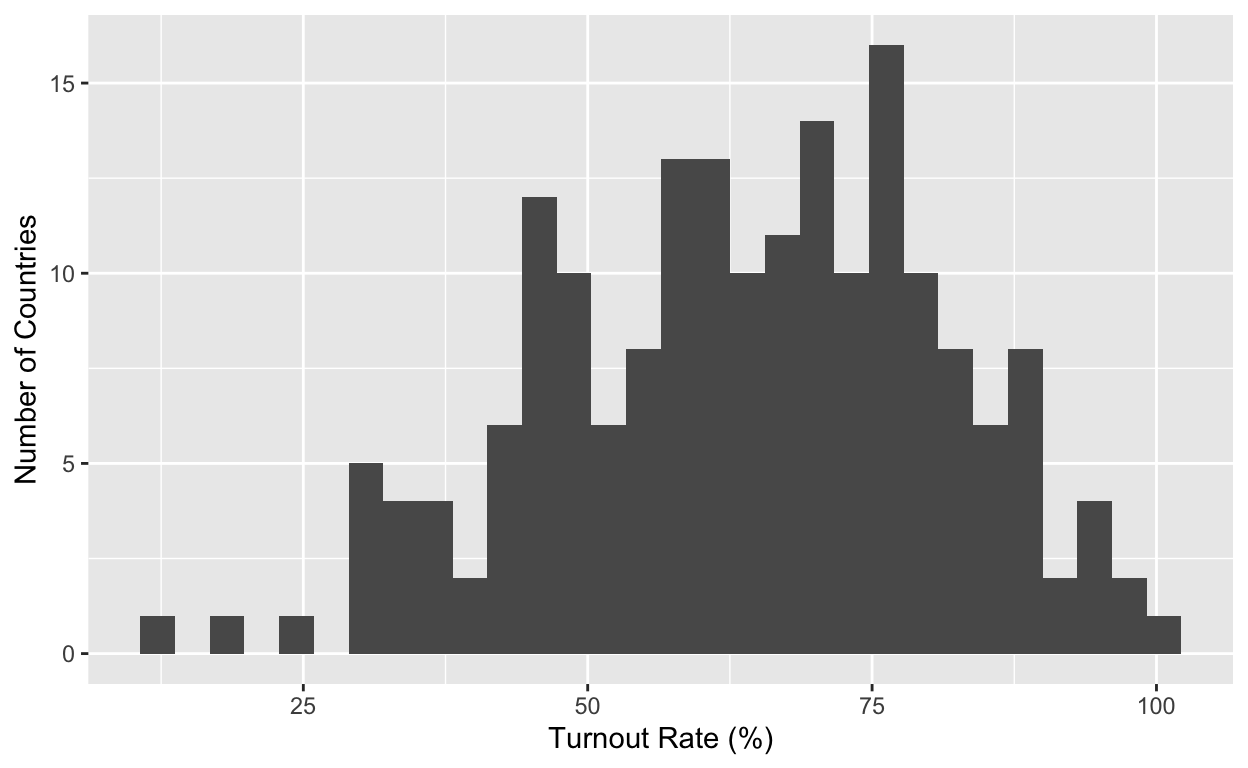
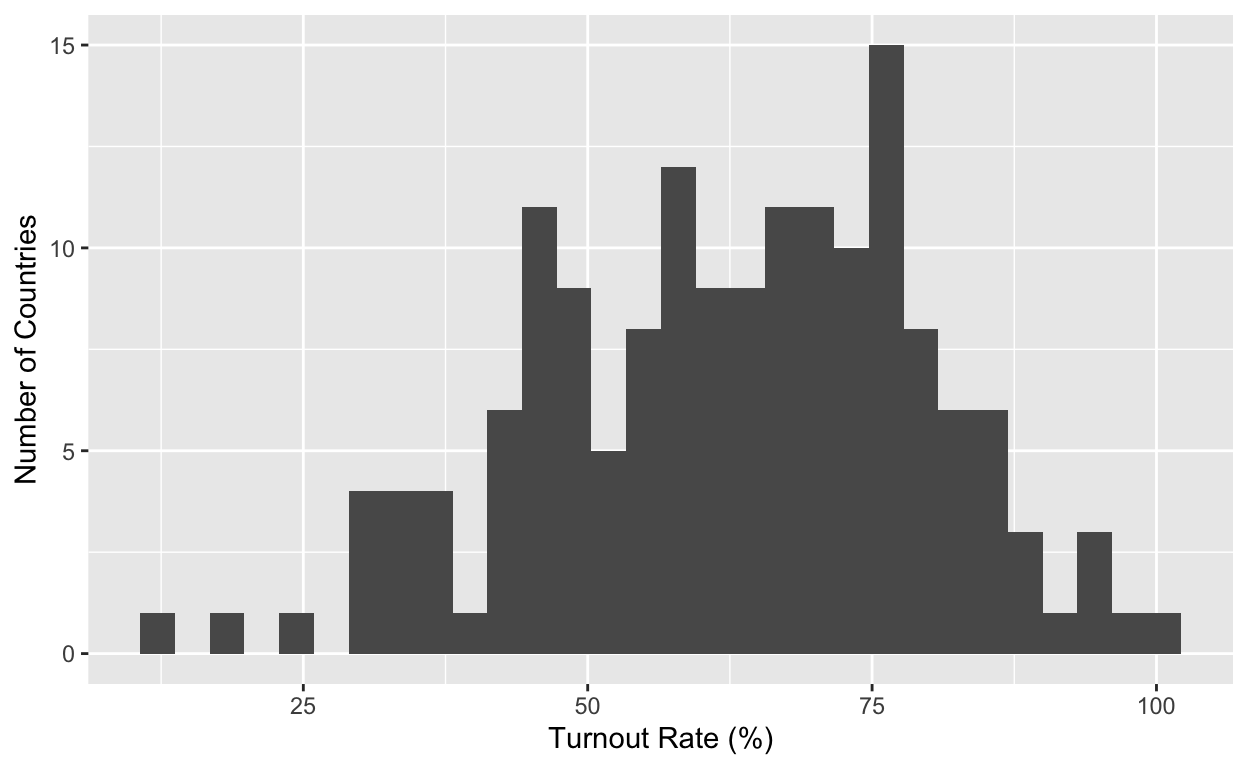
11.15.2023 10:01

diff --git a/index.html b/index.html
@@ -115,7 +115,7 @@ code span.wa { color: #5e5e5e; font-style: italic; } /* Warning */
   <!--/radix_placeholder_rmarkdown_metadata-->
   
   <script type="text/json" id="radix-resource-manifest">
-  {"type":"character","attributes":{},"value":["CVIL Codebook.pdf","cvil_22_09_08.csv","index_files/anchor-4.2.2/anchor.min.js","index_files/bowser-1.9.3/bowser.min.js","index_files/distill-2.2.21/template.v2.js","index_files/figure-html5/unnamed-chunk-3-1.png","index_files/header-attrs-2.16/header-attrs.js","index_files/header-attrs-2.17/header-attrs.js","index_files/header-attrs-2.25/header-attrs.js","index_files/jquery-3.6.0/jquery-3.6.0.js","index_files/jquery-3.6.0/jquery-3.6.0.min.js","index_files/jquery-3.6.0/jquery-3.6.0.min.map","index_files/popper-2.6.0/popper.min.js","index_files/tippy-6.2.7/tippy-bundle.umd.min.js","index_files/tippy-6.2.7/tippy-light-border.css","index_files/tippy-6.2.7/tippy.css","index_files/tippy-6.2.7/tippy.umd.min.js","index_files/webcomponents-2.0.0/webcomponents.js","voterturnout.csv"]}
+  {"type":"character","attributes":{},"value":["CVIL Codebook.pdf","cvil_22_09_08.csv","index_files/anchor-4.2.2/anchor.min.js","index_files/bowser-1.9.3/bowser.min.js","index_files/distill-2.2.21/template.v2.js","index_files/figure-html5/unnamed-chunk-3-1.png","index_files/figure-html5/unnamed-chunk-4-1.png","index_files/figure-html5/unnamed-chunk-5-1.png","index_files/header-attrs-2.16/header-attrs.js","index_files/header-attrs-2.17/header-attrs.js","index_files/header-attrs-2.25/header-attrs.js","index_files/jquery-3.6.0/jquery-3.6.0.js","index_files/jquery-3.6.0/jquery-3.6.0.min.js","index_files/jquery-3.6.0/jquery-3.6.0.min.map","index_files/popper-2.6.0/popper.min.js","index_files/tippy-6.2.7/tippy-bundle.umd.min.js","index_files/tippy-6.2.7/tippy-light-border.css","index_files/tippy-6.2.7/tippy.css","index_files/tippy-6.2.7/tippy.umd.min.js","index_files/webcomponents-2.0.0/webcomponents.js","voterturnout.csv"]}
   </script>
   <!--radix_placeholder_navigation_in_header-->
   <!--/radix_placeholder_navigation_in_header-->
@@ -1544,7 +1544,7 @@ code span.wa { color: #5e5e5e; font-style: italic; } /* Warning */
 
 <div class="d-article">
 <h2 id="project-thoughts">Project Thoughts</h2>
-<p>Among countries without compulsory voting, does the amount of information needed to register to vote influence voter turnout in parliamentary elections? In this study, I plan to examine the extent to which additional requirements for proving voting elibility harm efforts to increase turnout in different countries. I hypothesize that the more restrictive voter ID laws are in a given country, the lower voter turnout will be. This hypothesis stems from the theory that a) requiring additional documents to prove voting eligibility makes it more difficult for voters to cast a ballot and/or b) requiring additional documents to prove voting eligibility decreases the perceived accessibility of voting and discourages prospective voters from even attempting to cast a vote. I suspect that some combination of these two factors will increase the barriers - either logistical or perceptual - to casting a ballot. My explanatory variable is <code>id_type</code> - or the type of voter ID law. It is measured in 1 of 3 categories: 1. Voter must give basic personal details, 2: Voter is requested/required to present proof of identification or voter registration card, not photo ID, or 3: Voter to present photo identification and/or other biometric data. My outcome variable is voter turnout in parliamentary elections, measured in the percentage of the population that casted a vote in a country’s parliamentary election. If I observe greater voter turnout in parliamentary elections for countries with less restrictive voter ID laws, this would provide support for my hypothesis. If, on the other hand, I observe greater voter turnout in parliamentary elections for countries with more restrictive voter ID laws (potentially because more people turn out when they believe elections are more secure), this would provide evidence against my hypothesis. When I run my regression of the voter turnout values on the voter ID law variable, a negative, significant coefficient would indicate support for my hypothesis. This is because lower values of the voter ID law variable indicate less restrictive laws, and in order for the data to support my hypothesis, those would need to correspond with higher voter turnout and vice versa.</p>
+<p>Among countries without compulsory voting, does the amount of information needed to register to vote and the amount of government-provided voter registration support influence voter turnout in parliamentary elections? In this study, I plan to examine the extent to which additional requirements for proving voting eligibility and assisting voters with voter registration influence efforts to increase turnout in different countries. I hypothesize that the more restrictive voter ID laws are and the less assistance that is provided in a given country, the lower voter turnout will be. This hypothesis stems from the theory that a) requiring additional documents to prove voting eligibility makes it more difficult for voters to cast a ballot and/or b) requiring additional documents to prove voting eligibility decreases the perceived accessibility of voting and discourages prospective voters from even attempting to cast a vote. I suspect that some combination of these two factors will increase the barriers - either logistical or perceptual - to casting a ballot. In terms of providing assistance, my hypothesis stems from the idea that a government providing more assistance to voters to register will decrease barriers to voting itself and therefore increase turnout. My explanatory variables are <code>id_type</code> - the type of voter ID law - and <code>reg_law</code> - the type of voter registration assistance, if any. Voter ID law is measured in 1 of 3 categories: 1. Voter must give basic personal details, 2. Voter is requested/required to present proof of identification or voter registration card, not photo ID, or 3. Voter to present photo identification and/or other biometric data. My outcome variable is voter turnout in parliamentary elections, measured in the percentage of the population that casted a vote in a country’s parliamentary election. If I observe greater voter turnout in parliamentary elections for countries with less restrictive voter ID laws, this would provide support for my hypothesis. If, on the other hand, I observe greater voter turnout in parliamentary elections for countries with more restrictive voter ID laws (potentially because more people turn out when they believe elections are more secure), this would provide evidence against my hypothesis. When I run my regression of the voter turnout values on the voter ID law variable, a negative, significant coefficient would indicate support for my hypothesis. This is because lower values of the voter ID law variable indicate less restrictive laws, and in order for the data to support my hypothesis, those would need to correspond with higher voter turnout and vice versa. The voter registration assistance variable is measured in 3 categories: 1. Lassie-faire, 2. Assisted, 3. Automatic. If I observe greater voter turnout in parliamentary elections for countries with more support for voter registration (closer to 3), this would provide support for my hypothesis. When I run my regression of the voter turnout values on the registration law variable, a positive, significant coefficient would indicate support for my hypothesis.</p>
 <div class="layout-chunk" data-layout="l-body">
 <div class="sourceCode">
 <pre class="sourceCode r"><code class="sourceCode r"><span><span class='kw'><a href='https://rdrr.io/r/base/library.html'>library</a></span><span class='op'>(</span><span class='va'><a href='https://tidyverse.tidyverse.org'>tidyverse</a></span><span class='op'>)</span></span>
@@ -1554,27 +1554,14 @@ code span.wa { color: #5e5e5e; font-style: italic; } /* Warning */
 <span><span class='va'>vote</span> <span class='op'>=</span> <span class='va'>compul</span> <span class='op'>|&gt;</span></span>
 <span>  <span class='fu'><a href='https://dplyr.tidyverse.org/reference/mutate-joins.html'>inner_join</a></span><span class='op'>(</span><span class='va'>turnout</span>, by <span class='op'>=</span> <span class='fu'><a href='https://rdrr.io/r/base/c.html'>c</a></span><span class='op'>(</span><span class='st'>"cntry"</span> <span class='op'>=</span> <span class='st'>"Country"</span><span class='op'>)</span><span class='op'>)</span></span>
 <span><span class='va'>vote</span> <span class='op'>=</span> <span class='va'>vote</span> <span class='op'>|&gt;</span></span>
-<span>  <span class='fu'><a href='https://dplyr.tidyverse.org/reference/select.html'>select</a></span><span class='op'>(</span><span class='va'>cntry</span><span class='op'>:</span><span class='va'>id_type_lab</span>, <span class='va'>turnout</span><span class='op'>)</span></span></code></pre>
+<span>  <span class='fu'><a href='https://dplyr.tidyverse.org/reference/select.html'>select</a></span><span class='op'>(</span><span class='va'>cntry</span><span class='op'>:</span><span class='va'>id_type_lab</span>, <span class='va'>reg_law</span>, <span class='va'>reg_lab</span>, <span class='va'>cmp_vt</span>, <span class='va'>turnout</span><span class='op'>)</span></span></code></pre>
 </div>
 </div>
 <div class="layout-chunk" data-layout="l-body">
 <div class="sourceCode">
-<pre class="sourceCode r"><code class="sourceCode r"><span><span class='va'>vote</span></span></code></pre>
+<pre class="sourceCode r"><code class="sourceCode r"><span><span class='va'>vote</span> <span class='op'>=</span> <span class='va'>vote</span> <span class='op'>|&gt;</span></span>
+<span>  <span class='fu'><a href='https://dplyr.tidyverse.org/reference/filter.html'>filter</a></span><span class='op'>(</span><span class='va'>cmp_vt</span> <span class='op'>==</span> <span class='fl'>0</span><span class='op'>)</span></span></code></pre>
 </div>
-<pre><code># A tibble: 188 × 5
-   cntry               cntry_cd id_type id_type_lab            turnout
-   &lt;chr&gt;               &lt;chr&gt;      &lt;dbl&gt; &lt;chr&gt;                    &lt;dbl&gt;
- 1 Afghanistan         AFG            3 Photo ID                  45.2
- 2 Albania             ALB            3 Photo ID                  46.3
- 3 Algeria             DZA            3 Photo ID                  23.0
- 4 Andorra             AND            3 Photo ID                  66.9
- 5 Angola              AGO            2 Non Photo ID              44.8
- 6 Anguilla            AIA            1 Basic Personal Details    61.0
- 7 Antigua and Barbuda ATG            3 Photo ID                  70.3
- 8 Argentina           ARG            3 Photo ID                  81.1
- 9 Armenia             ARM            3 Photo ID                  49.4
-10 Aruba               ABW            3 Photo ID                  84.7
-# ℹ 178 more rows</code></pre>
 </div>
 <div class="layout-chunk" data-layout="l-body">
 <div class="sourceCode">
@@ -1588,7 +1575,61 @@ code span.wa { color: #5e5e5e; font-style: italic; } /* Warning */
 <p><img src="index_files/figure-html5/unnamed-chunk-3-1.png" width="624" /></p>
 </div>
 <p>This visualization depicts the parliamentary turnout rates of all of the countries in the data set. There is a cluster in the middle of the x-axis, between 50% and 75%, indicating that many countries have turnout rates within this range. There are a few observations between 0% and 25%, indicating that some countries have relatively low turnout rates. There are a few observations between 75% and 100%, indicating that some countries have relatively high turnout rates.</p>
-<div class="sourceCode" id="cb2"><pre class="sourceCode r distill-force-highlighting-css"><code class="sourceCode r"></code></pre></div>
+<div class="layout-chunk" data-layout="l-body">
+<div class="sourceCode">
+<pre class="sourceCode r"><code class="sourceCode r"><span><span class='va'>id_hist</span> <span class='op'>=</span> <span class='fu'><a href='https://ggplot2.tidyverse.org/reference/ggplot.html'>ggplot</a></span><span class='op'>(</span>data <span class='op'>=</span> <span class='va'>vote</span>, mapping <span class='op'>=</span> <span class='fu'><a href='https://ggplot2.tidyverse.org/reference/aes.html'>aes</a></span><span class='op'>(</span>x <span class='op'>=</span> <span class='va'>id_type</span><span class='op'>)</span><span class='op'>)</span> <span class='op'>+</span> </span>
+<span>  <span class='fu'><a href='https://ggplot2.tidyverse.org/reference/geom_histogram.html'>geom_histogram</a></span><span class='op'>(</span><span class='op'>)</span> <span class='op'>+</span> <span class='fu'><a href='https://ggplot2.tidyverse.org/reference/labs.html'>labs</a></span><span class='op'>(</span></span>
+<span>    x <span class='op'>=</span> <span class='st'>"Type of Voter ID Law"</span>,</span>
+<span>    y <span class='op'>=</span> <span class='st'>"Number of Countries"</span></span>
+<span>  <span class='op'>)</span></span>
+<span><span class='va'>id_hist</span></span></code></pre>
+</div>
+<p><img src="index_files/figure-html5/unnamed-chunk-4-1.png" width="624" /></p>
+</div>
+<p>This visualization depicts the number of countries that have each kind of voter ID law (denoted by 1, 2, or 3). It looks like there under 25 countries for ID law type 1 and 2, and there are significantly more countries (about 150) that have voter ID law type 3. Voter ID law type 3 means that the voter must present photo identification and/or other biometric data. Voter ID law type 1 is the least restrictive (the voter must give basic personal details), and voter ID law type 2 is in the middle (voter is requested/required to present proof of identification or voter registration card, not photo ID).</p>
+<div class="layout-chunk" data-layout="l-body">
+<div class="sourceCode">
+<pre class="sourceCode r"><code class="sourceCode r"><span><span class='va'>reg_hist</span> <span class='op'>=</span> <span class='fu'><a href='https://ggplot2.tidyverse.org/reference/ggplot.html'>ggplot</a></span><span class='op'>(</span>data <span class='op'>=</span> <span class='va'>vote</span>, mapping <span class='op'>=</span> <span class='fu'><a href='https://ggplot2.tidyverse.org/reference/aes.html'>aes</a></span><span class='op'>(</span>x <span class='op'>=</span> <span class='va'>reg_law</span><span class='op'>)</span><span class='op'>)</span> <span class='op'>+</span> </span>
+<span>  <span class='fu'><a href='https://ggplot2.tidyverse.org/reference/geom_histogram.html'>geom_histogram</a></span><span class='op'>(</span><span class='op'>)</span> <span class='op'>+</span> <span class='fu'><a href='https://ggplot2.tidyverse.org/reference/labs.html'>labs</a></span><span class='op'>(</span></span>
+<span>    x <span class='op'>=</span> <span class='st'>"Type of Voter Registration Assistance"</span>,</span>
+<span>    y <span class='op'>=</span> <span class='st'>"Number of Countries"</span></span>
+<span>  <span class='op'>)</span></span>
+<span><span class='va'>reg_hist</span></span></code></pre>
+</div>
+<p><img src="index_files/figure-html5/unnamed-chunk-5-1.png" width="624" /></p>
+</div>
+<p>This visualization depicts the number of countries that have each kind of voter registration assistance policies (denoted by 1, 2, or 3). It looks like there under 25 countries for ID law type 2, and there are significantly more countries (over 75) that have voter ID law type 1 and 3. Voter ID law type 3 means that the voter must present photo identification and/or other biometric data. Voter ID law type 1 is lassie-faire, 2 is assisted, and 3 is automatic, so there are more countries that use lassie-faire or automatic voter registration policies than assisted voter registration policies.</p>
+<div class="layout-chunk" data-layout="l-body">
+<div class="sourceCode">
+<pre class="sourceCode r"><code class="sourceCode r"><span><span class='va'>vote</span> <span class='op'>|&gt;</span></span>
+<span>  <span class='fu'><a href='https://dplyr.tidyverse.org/reference/group_by.html'>group_by</a></span><span class='op'>(</span><span class='va'>id_type</span><span class='op'>)</span> <span class='op'>|&gt;</span></span>
+<span>  <span class='fu'><a href='https://dplyr.tidyverse.org/reference/summarise.html'>summarize</a></span><span class='op'>(</span>turnout_mean <span class='op'>=</span> <span class='fu'><a href='https://rdrr.io/r/base/mean.html'>mean</a></span><span class='op'>(</span><span class='va'>turnout</span><span class='op'>)</span><span class='op'>)</span></span></code></pre>
+</div>
+<pre><code># A tibble: 4 × 2
+  id_type turnout_mean
+    &lt;dbl&gt;        &lt;dbl&gt;
+1       1         67.3
+2       2         70.4
+3       3         61.1
+4      NA         74.4</code></pre>
+</div>
+<p>It looks like the turnout mean is lowest for the group with the voter ID law type 3, the most restrictive. On face value, it looks like the countries with the most restrictive voter ID laws, on average, have a lower turnout rate.</p>
+<div class="layout-chunk" data-layout="l-body">
+<div class="sourceCode">
+<pre class="sourceCode r"><code class="sourceCode r"><span><span class='va'>vote</span> <span class='op'>|&gt;</span></span>
+<span>  <span class='fu'><a href='https://dplyr.tidyverse.org/reference/group_by.html'>group_by</a></span><span class='op'>(</span><span class='va'>reg_law</span><span class='op'>)</span> <span class='op'>|&gt;</span></span>
+<span>  <span class='fu'><a href='https://dplyr.tidyverse.org/reference/summarise.html'>summarize</a></span><span class='op'>(</span>turnout_mean <span class='op'>=</span> <span class='fu'><a href='https://rdrr.io/r/base/mean.html'>mean</a></span><span class='op'>(</span><span class='va'>turnout</span><span class='op'>)</span><span class='op'>)</span></span></code></pre>
+</div>
+<pre><code># A tibble: 4 × 2
+  reg_law turnout_mean
+    &lt;dbl&gt;        &lt;dbl&gt;
+1       1         63.0
+2       2         61.0
+3       3         62.2
+4      NA         74.9</code></pre>
+</div>
+<p>It looks like the turnout mean is lowest for the group with the voter regisgtration assistance type 2, although there are not substantial differences for each type of policy.</p>
+<div class="sourceCode" id="cb3"><pre class="sourceCode r distill-force-highlighting-css"><code class="sourceCode r"></code></pre></div>
 <!--radix_placeholder_article_footer-->
 <!--/radix_placeholder_article_footer-->
 </div>
